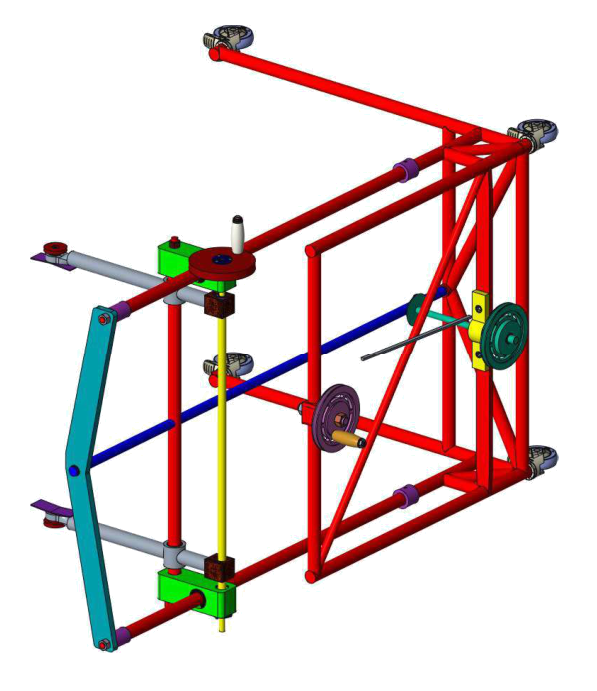
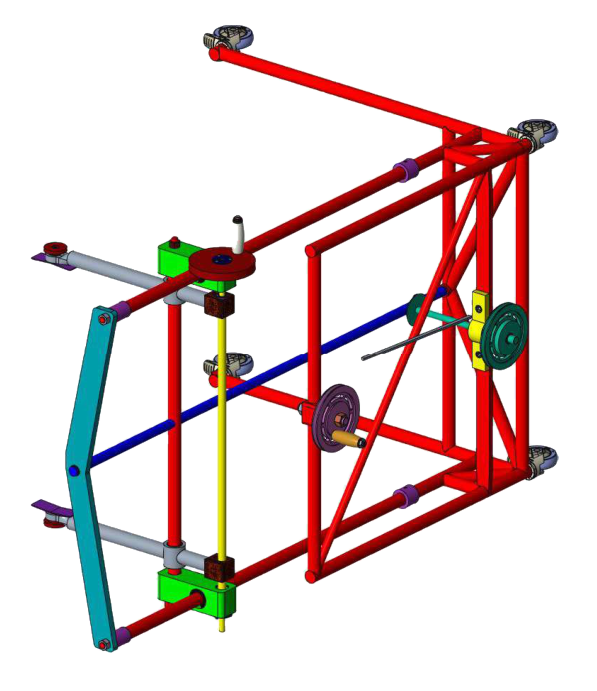
Add French and Chinese versions of the cheese machine page
- cheese-machine-fr.html and cheese-machine-zh.html, written rather than
  translated word for word so each reads naturally in its own language
- language switcher on all three, plus hreflang alternates in the head
- English copy reworded and em dashes dropped throughout
- isometric re-cut from the drawing with feathered alpha and the JPEG
  specks removed, so it sits cleanly on the dark background

Claude-Session: https://claude.ai/code/session_011Nu3QTbnxxtEhxoGsJJb6g

Changed region(s): [[0.7839, 0.547, 0.8442, 0.6382], [0.7839, 0.3343, 0.8442, 0.4255], [0.3618, 0.3343, 0.4221, 0.3647]]

diff --git a/cheese-machine-fr.html b/cheese-machine-fr.html
@@ -4,17 +4,17 @@
 	html5up.net | @ajlkn
 	Free for personal and commercial use under the CCA 3.0 license (html5up.net/license)
 -->
-<html lang="en">
+<html lang="fr">
 	<head>
-		<title>Cheese Handling Machine · Jérôme-Kai Wu</title>
+		<title>Machine de manutention de fromages · Jérôme-Kai Wu</title>
 		<meta charset="utf-8" />
-		<meta name="description" content="A cheese handling machine designed in Creo: about 90 parts that grip a cheese wheel, turn it and raise it for handling in a ripening cellar." />
+		<meta name="description" content="Une machine de manutention de fromages conçue sous Creo : environ 90 pièces pour saisir une meule, la faire pivoter et la monter en cave d'affinage." />
 		<meta name="author" content="Jérôme-Kai Wu" />
 		<meta property="og:type" content="website" />
 		<meta property="og:site_name" content="Jérôme-Kai Wu" />
-		<meta property="og:title" content="Cheese Handling Machine · Jérôme-Kai Wu" />
-		<meta property="og:description" content="A cheese handling machine designed in Creo: about 90 parts that grip a cheese wheel, turn it and raise it for handling in a ripening cellar." />
-		<meta property="og:url" content="https://jerome-kai.github.io/cheese-machine.html" />
+		<meta property="og:title" content="Machine de manutention de fromages · Jérôme-Kai Wu" />
+		<meta property="og:description" content="Une machine de manutention de fromages conçue sous Creo : environ 90 pièces pour saisir une meule, la faire pivoter et la monter en cave d'affinage." />
+		<meta property="og:url" content="https://jerome-kai.github.io/cheese-machine-fr.html" />
 		<meta property="og:image" content="https://jerome-kai.github.io/images/social-card.png" />
 		<meta name="twitter:card" content="summary_large_image" />
 		<link rel="alternate" hreflang="en" href="https://jerome-kai.github.io/cheese-machine.html" />
@@ -63,18 +63,18 @@
 							<section id="intro">
 								<div class="inner">
 									<header class="major">
-										<h1>Cheese Handling Machine</h1>
+										<h1>Machine de manutention de fromages</h1>
 									</header>
 									<ul class="lang-switch">
-									<li><span>English</span></li>
-									<li><a href="cheese-machine-fr.html" hreflang="fr">Français</a></li>
+									<li><a href="cheese-machine.html" hreflang="en">English</a></li>
+									<li><span>Français</span></li>
 									<li><a href="cheese-machine-zh.html" hreflang="zh-Hans">中文</a></li>
 									</ul>
-									<span class="image main" style="max-width: 28em; margin: 0 auto 2.5em auto;"><img src="images/projects/cheese-machine-3d.png" alt="Isometric view of the cheese handling machine" /></span>
-									<p><strong>A machine that grips a cheese wheel, turns it, and raises or lowers it for handling in a ripening cellar.</strong> It was designed in Creo as a complete assembly of about 90 parts, from the welded frame down to the standard fasteners, bearings and springs.</p>
-									<p>TN12 mechanical design project at UTC, June 2026, with C. Zheng.</p>
+									<span class="image main" style="max-width: 28em; margin: 0 auto 2.5em auto;"><img src="images/projects/cheese-machine-3d.png" alt="Vue isométrique de la machine de manutention de fromages" /></span>
+									<p><strong>Une machine qui saisit une meule de fromage, la fait pivoter et la monte ou la descend pour la manutention en cave d'affinage.</strong> Elle a été conçue sous Creo comme un assemblage complet d'environ 90 pièces, du bâti soudé jusqu'à la visserie normalisée, aux roulements et aux ressorts.</p>
+									<p>Projet de conception mécanique TN12 à l'UTC, juin 2026, avec C. Zheng.</p>
 									<ul class="actions">
-										<li><a href="generic.html" class="button primary">All projects</a></li>
+										<li><a href="generic.html" class="button primary">Tous les projets</a></li>
 									</ul>
 								</div>
 							</section>
@@ -82,25 +82,25 @@
 						<!-- Mechanism -->
 							<section id="mechanism">
 								<div class="inner">
-									<h2>How it works</h2>
-									<p>Three motions, all driven by hand, so the machine needs no power in the cellar:</p>
+									<h2>Le fonctionnement</h2>
+									<p>Trois mouvements, tous actionnés à la main, pour que la machine n'ait besoin d'aucune énergie en cave :</p>
 									<ul>
-										<li><strong>Clamping</strong>: a screw and nut mechanism, turned by a hand crank, closes the two gripper arms onto the wheel.</li>
-										<li><strong>Rotation</strong>: the arms pivot so the wheel can go from vertical to horizontal.</li>
-										<li><strong>Lifting</strong>: the carriages travel up and down the frame through a belt and pulley transmission.</li>
+										<li><strong>Serrage</strong>: un système vis-écrou, entraîné par une manivelle, referme les deux bras de la pince sur la meule.</li>
+										<li><strong>Rotation</strong>: les bras pivotent pour amener la meule de la verticale à l'horizontale.</li>
+										<li><strong>Levage</strong>: les chariots montent et descendent le long du bâti grâce à une transmission par courroie et poulies.</li>
 									</ul>
-									<p>The assembly is fully parametric. The clamping travel, the arm angle and the carriage height are all driven by sketch dimensions, so any position can be posed directly in the model.</p>
+									<p>L'assemblage est entièrement paramétré. La course de serrage, l'angle des bras et la hauteur des chariots sont pilotés par des cotes d'esquisse, ce qui permet de poser directement n'importe quelle position dans le modèle.</p>
 								</div>
 							</section>
 
 						<!-- Model -->
 							<section id="model">
 								<div class="inner">
-									<h2>The assembly</h2>
-									<p>The full Creo assembly, exported to STEP. Drag to rotate the model, scroll to zoom.</p>
+									<h2>L'assemblage</h2>
+									<p>L'assemblage Creo complet, exporté au format STEP. Faites glisser pour tourner le modèle, utilisez la molette pour zoomer.</p>
 									<model-viewer
 										src="models/cheese-machine.glb"
-										alt="3D model of the cheese handling machine"
+										alt="Modèle 3D de la machine de manutention de fromages"
 										camera-controls
 										touch-action="pan-y"
 										auto-rotate
@@ -114,8 +114,8 @@
 										style="width: 100%; height: 26em; background-color: #21263d; border-radius: 4px; margin-bottom: 2em;">
 									</model-viewer>
 									<ul class="actions">
-										<li><a href="models/cheese-machine.step" download class="button">Download the STEP</a></li>
-										<li><a href="models/cheese-machine.glb" download class="button">Download the GLB</a></li>
+										<li><a href="models/cheese-machine.step" download class="button">Télécharger le STEP</a></li>
+										<li><a href="models/cheese-machine.glb" download class="button">Télécharger le GLB</a></li>
 									</ul>
 								</div>
 							</section>
@@ -123,14 +123,14 @@
 						<!-- Drawing -->
 							<section id="drawing">
 								<div class="inner">
-									<h2>Technical drawing</h2>
-									<p>The general arrangement drawn from the assembly: three orthographic views, an isometric and the title block.</p>
+									<h2>Le plan d'ensemble</h2>
+									<p>Le plan tiré de l'assemblage : trois vues orthographiques, une perspective isométrique et le cartouche.</p>
 									<figure class="figure" style="max-width: 44em;">
-										<a href="images/projects/cheese-machine-plan.jpg"><img src="images/projects/cheese-machine-plan.jpg" alt="General arrangement drawing of the machine" /></a>
-										<figcaption>Scale 1:20 on A4. Click to enlarge.</figcaption>
+										<a href="images/projects/cheese-machine-plan.jpg"><img src="images/projects/cheese-machine-plan.jpg" alt="Plan d'ensemble de la machine" /></a>
+										<figcaption>Échelle 1:20 sur A4. Cliquez pour agrandir.</figcaption>
 									</figure>
 									<ul class="actions">
-										<li><a href="generic.html" class="button">Back to projects</a></li>
+										<li><a href="generic.html" class="button">Retour aux projets</a></li>
 									</ul>
 								</div>
 							</section>
@@ -144,12 +144,12 @@
 								<form method="post" action="https://formspree.io/f/meorezqb">
 									<div class="fields">
 										<div class="field half">
-											<label for="name">Name</label>
+											<label for="name">Nom</label>
 											<input type="text" name="name" id="name" required/>
 										</div>
 
 										<div class="field half">
-											<label for="email">Email</label>
+											<label for="email">E-mail</label>
 											<input type="email" name="email" id="email" required/>
 										</div>
 
@@ -159,8 +159,8 @@
 										</div>
 									</div>
 									<ul class="actions">
-										<li><input type="submit" value="Send Message" class="primary" /></li>
-										<li><input type="reset" value="Clear" /></li>
+										<li><input type="submit" value="Envoyer" class="primary" /></li>
+										<li><input type="reset" value="Effacer" /></li>
 									</ul>
 								</form>
 							</section>

diff --git a/cheese-machine-zh.html b/cheese-machine-zh.html
@@ -4,17 +4,17 @@
 	html5up.net | @ajlkn
 	Free for personal and commercial use under the CCA 3.0 license (html5up.net/license)
 -->
-<html lang="en">
+<html lang="zh-Hans">
 	<head>
-		<title>Cheese Handling Machine · Jérôme-Kai Wu</title>
+		<title>奶酪搬运机 · 吴 Jérôme-Kai</title>
 		<meta charset="utf-8" />
-		<meta name="description" content="A cheese handling machine designed in Creo: about 90 parts that grip a cheese wheel, turn it and raise it for handling in a ripening cellar." />
+		<meta name="description" content="用 Creo 设计的奶酪搬运机：约 90 个零件，用来夹取奶酪轮、翻转并升降，方便在熟成窖里搬运。" />
 		<meta name="author" content="Jérôme-Kai Wu" />
 		<meta property="og:type" content="website" />
 		<meta property="og:site_name" content="Jérôme-Kai Wu" />
-		<meta property="og:title" content="Cheese Handling Machine · Jérôme-Kai Wu" />
-		<meta property="og:description" content="A cheese handling machine designed in Creo: about 90 parts that grip a cheese wheel, turn it and raise it for handling in a ripening cellar." />
-		<meta property="og:url" content="https://jerome-kai.github.io/cheese-machine.html" />
+		<meta property="og:title" content="奶酪搬运机 · 吴 Jérôme-Kai" />
+		<meta property="og:description" content="用 Creo 设计的奶酪搬运机：约 90 个零件，用来夹取奶酪轮、翻转并升降，方便在熟成窖里搬运。" />
+		<meta property="og:url" content="https://jerome-kai.github.io/cheese-machine-zh.html" />
 		<meta property="og:image" content="https://jerome-kai.github.io/images/social-card.png" />
 		<meta name="twitter:card" content="summary_large_image" />
 		<link rel="alternate" hreflang="en" href="https://jerome-kai.github.io/cheese-machine.html" />
@@ -63,18 +63,18 @@
 							<section id="intro">
 								<div class="inner">
 									<header class="major">
-										<h1>Cheese Handling Machine</h1>
+										<h1>奶酪搬运机</h1>
 									</header>
 									<ul class="lang-switch">
-									<li><span>English</span></li>
+									<li><a href="cheese-machine.html" hreflang="en">English</a></li>
 									<li><a href="cheese-machine-fr.html" hreflang="fr">Français</a></li>
-									<li><a href="cheese-machine-zh.html" hreflang="zh-Hans">中文</a></li>
+									<li><span>中文</span></li>
 									</ul>
-									<span class="image main" style="max-width: 28em; margin: 0 auto 2.5em auto;"><img src="images/projects/cheese-machine-3d.png" alt="Isometric view of the cheese handling machine" /></span>
-									<p><strong>A machine that grips a cheese wheel, turns it, and raises or lowers it for handling in a ripening cellar.</strong> It was designed in Creo as a complete assembly of about 90 parts, from the welded frame down to the standard fasteners, bearings and springs.</p>
-									<p>TN12 mechanical design project at UTC, June 2026, with C. Zheng.</p>
+									<span class="image main" style="max-width: 28em; margin: 0 auto 2.5em auto;"><img src="images/projects/cheese-machine-3d.png" alt="奶酪搬运机的轴测视图" /></span>
+									<p><strong>一台用来夹取奶酪轮、把它翻转并升降的机器，方便在熟成窖里搬运奶酪。</strong>整机用 Creo 设计，是一个约 90 个零件的完整装配体，从焊接机架到标准紧固件、轴承和弹簧都包含在内。</p>
+									<p>UTC TN12 机械设计课程项目，2026 年 6 月，与 C. Zheng 合作。</p>
 									<ul class="actions">
-										<li><a href="generic.html" class="button primary">All projects</a></li>
+										<li><a href="generic.html" class="button primary">全部项目</a></li>
 									</ul>
 								</div>
 							</section>
@@ -82,25 +82,25 @@
 						<!-- Mechanism -->
 							<section id="mechanism">
 								<div class="inner">
-									<h2>How it works</h2>
-									<p>Three motions, all driven by hand, so the machine needs no power in the cellar:</p>
+									<h2>工作原理</h2>
+									<p>三个动作全部靠手动完成，机器在窖内不需要任何动力：</p>
 									<ul>
-										<li><strong>Clamping</strong>: a screw and nut mechanism, turned by a hand crank, closes the two gripper arms onto the wheel.</li>
-										<li><strong>Rotation</strong>: the arms pivot so the wheel can go from vertical to horizontal.</li>
-										<li><strong>Lifting</strong>: the carriages travel up and down the frame through a belt and pulley transmission.</li>
+										<li><strong>夹紧</strong>：手摇曲柄带动丝杠螺母，把两只夹臂合拢在奶酪轮上。</li>
+										<li><strong>翻转</strong>：夹臂绕轴转动，把奶酪轮从竖直位置转到水平位置。</li>
+										<li><strong>升降</strong>：滑架通过带轮传动，沿机架上下移动。</li>
 									</ul>
-									<p>The assembly is fully parametric. The clamping travel, the arm angle and the carriage height are all driven by sketch dimensions, so any position can be posed directly in the model.</p>
+									<p>整个装配体是全参数化的。夹紧行程、夹臂角度和滑架高度都由草图尺寸驱动，因此可以直接在模型里摆出任意位置。</p>
 								</div>
 							</section>
 
 						<!-- Model -->
 							<section id="model">
 								<div class="inner">
-									<h2>The assembly</h2>
-									<p>The full Creo assembly, exported to STEP. Drag to rotate the model, scroll to zoom.</p>
+									<h2>装配体</h2>
+									<p>完整的 Creo 装配体，导出为 STEP 格式。拖动可旋转模型，滚动可缩放。</p>
 									<model-viewer
 										src="models/cheese-machine.glb"
-										alt="3D model of the cheese handling machine"
+										alt="奶酪搬运机的三维模型"
 										camera-controls
 										touch-action="pan-y"
 										auto-rotate
@@ -114,8 +114,8 @@
 										style="width: 100%; height: 26em; background-color: #21263d; border-radius: 4px; margin-bottom: 2em;">
 									</model-viewer>
 									<ul class="actions">
-										<li><a href="models/cheese-machine.step" download class="button">Download the STEP</a></li>
-										<li><a href="models/cheese-machine.glb" download class="button">Download the GLB</a></li>
+										<li><a href="models/cheese-machine.step" download class="button">下载 STEP</a></li>
+										<li><a href="models/cheese-machine.glb" download class="button">下载 GLB</a></li>
 									</ul>
 								</div>
 							</section>
@@ -123,14 +123,14 @@
 						<!-- Drawing -->
 							<section id="drawing">
 								<div class="inner">
-									<h2>Technical drawing</h2>
-									<p>The general arrangement drawn from the assembly: three orthographic views, an isometric and the title block.</p>
+									<h2>工程图</h2>
+									<p>由装配体生成的总装图：三个正投影视图、一个轴测图和标题栏。</p>
 									<figure class="figure" style="max-width: 44em;">
-										<a href="images/projects/cheese-machine-plan.jpg"><img src="images/projects/cheese-machine-plan.jpg" alt="General arrangement drawing of the machine" /></a>
-										<figcaption>Scale 1:20 on A4. Click to enlarge.</figcaption>
+										<a href="images/projects/cheese-machine-plan.jpg"><img src="images/projects/cheese-machine-plan.jpg" alt="机器的总装图" /></a>
+										<figcaption>比例 1:20，A4 图幅。点击可放大。</figcaption>
 									</figure>
 									<ul class="actions">
-										<li><a href="generic.html" class="button">Back to projects</a></li>
+										<li><a href="generic.html" class="button">返回项目页</a></li>
 									</ul>
 								</div>
 							</section>
@@ -144,23 +144,23 @@
 								<form method="post" action="https://formspree.io/f/meorezqb">
 									<div class="fields">
 										<div class="field half">
-											<label for="name">Name</label>
+											<label for="name">姓名</label>
 											<input type="text" name="name" id="name" required/>
 										</div>
 
 										<div class="field half">
-											<label for="email">Email</label>
+											<label for="email">邮箱</label>
 											<input type="email" name="email" id="email" required/>
 										</div>
 
 										<div class="field">
-											<label for="message">Message</label>
+											<label for="message">留言</label>
 											<textarea name="message" id="message" rows="6" required></textarea>
 										</div>
 									</div>
 									<ul class="actions">
-										<li><input type="submit" value="Send Message" class="primary" /></li>
-										<li><input type="reset" value="Clear" /></li>
+										<li><input type="submit" value="发送" class="primary" /></li>
+										<li><input type="reset" value="清空" /></li>
 									</ul>
 								</form>
 							</section>

diff --git a/assets/css/site.css b/assets/css/site.css
@@ -295,3 +295,49 @@
 	header.major {
 		max-width: 100%;
 	}
+
+/* Language switcher */
+
+	.lang-switch {
+		display: -ms-flexbox;
+		display: flex;
+		-ms-flex-wrap: wrap;
+		flex-wrap: wrap;
+		gap: 0.5em;
+		list-style: none;
+		margin: 0 0 2em 0;
+		padding: 0;
+	}
+
+		.lang-switch li {
+			padding: 0;
+			margin: 0;
+		}
+
+		.lang-switch a,
+		.lang-switch span {
+			display: inline-block;
+			padding: 0.4em 0.9em;
+			font-size: 0.66em;
+			font-weight: 600;
+			letter-spacing: 0.16em;
+			text-transform: uppercase;
+			border: 1px solid rgba(155, 241, 255, 0.3);
+			border-radius: 3px;
+			border-bottom: 1px solid rgba(155, 241, 255, 0.3);
+		}
+
+		.lang-switch a {
+			color: rgba(255, 255, 255, 0.75);
+		}
+
+			.lang-switch a:hover {
+				color: #9bf1ff;
+				border-color: #9bf1ff;
+			}
+
+		.lang-switch span {
+			color: #242943;
+			background-color: #9bf1ff;
+			border-color: #9bf1ff;
+		}
